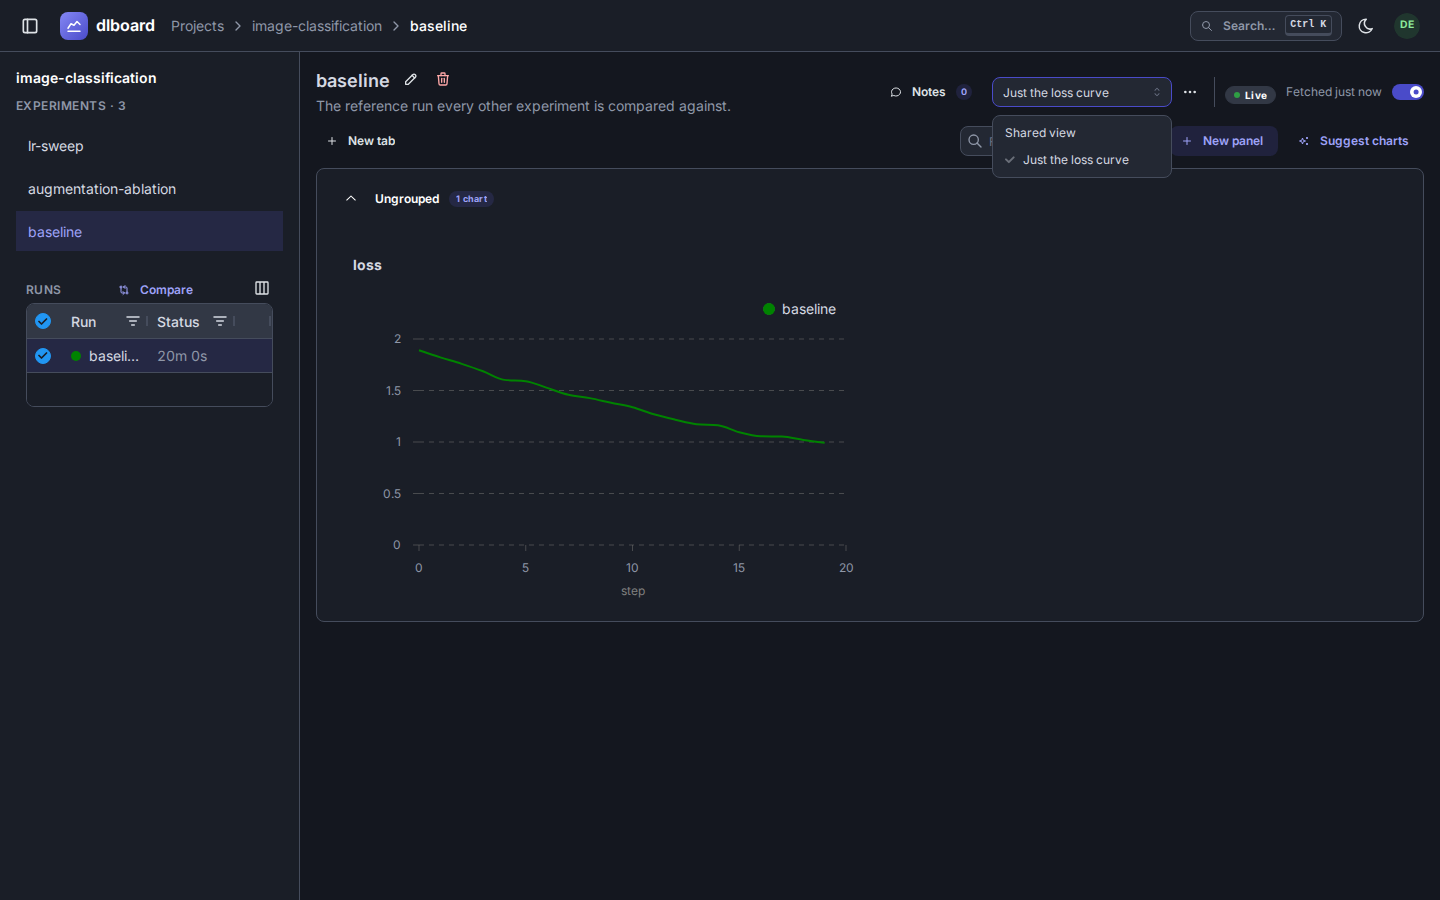
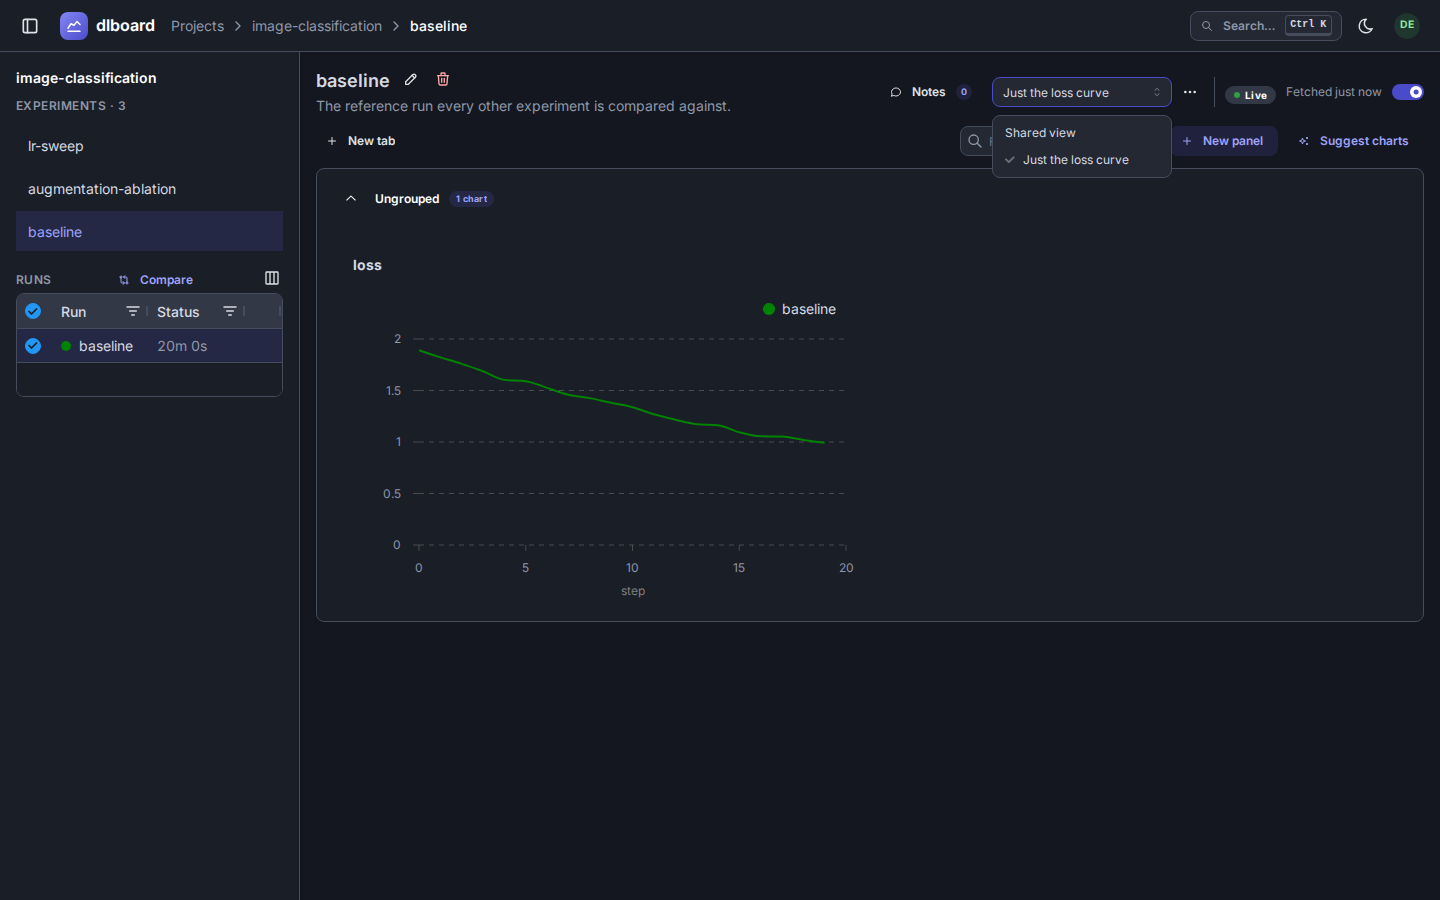
Line the navbar's runs table up with the experiment links above it
The runs section wrapped itself in a padding of its own inside the
navbar's, so its label and table sat 10 px further in on each side than
the experiment links (16 to 26 px on the left). It now uses the navbar's
padding alone. A browser test measures both edges; with the old padding
it fails with 26 == 16 +- 1.

Re-renders the three docs screenshots that show the navbar's runs.

Closes #371.

Changed region(s): [[0.0, 0.3111, 0.2188, 0.4356]]

diff --git a/dlboard/tests/browser_test.py b/dlboard/tests/browser_test.py
@@ -41,6 +41,7 @@ from dlboard.client.histograms import ExponentialBinning
 from dlboard.models import OVERLAY_KEY_SUFFIX, RUN_NAME_COLUMN, PanelInstance, overlay_key
 from dlboard.plugins.charts.line_chart import LEGEND_MAX_HEIGHT
 from dlboard.serve import get_system_data_store
+from dlboard.serve._constants import NAVBAR_ID
 from dlboard.serve._jump import JUMP_SELECT_ID
 from dlboard.serve._pages._experiment._chart_autogen import AUTO_OPEN_MAX_CHARTS
 from dlboard.serve._pages._experiment._chart_editor import CHART_EDITOR_SAVE_ID
@@ -2154,6 +2155,29 @@ def test_the_runs_table_shows_how_each_run_ended_and_for_how_long(page: Page, li
     expect(rows.filter(has_text="crashed")).to_contain_text("✕ 1h 2m")
     expect(rows.filter(has_text="all-done")).to_contain_text("3m 23s")
     expect(rows.filter(has_text="walked-away")).to_contain_text("? 2d 3h")
+
+
+def test_the_runs_table_lines_up_with_the_experiment_links_above_it(
+    page: Page, live_server_url: str, console_errors: list[str]
+) -> None:
+    """It sat a padding further in on each side than the experiment links in the same navbar (#371)."""
+    api = BasicDlboardAPI(live_server_url)
+    project = api.create_project(models.NewProject(name="Navbar Alignment Project", description=""))
+    experiment = api.create_experiment(models.NewExperiment(project_id=project.id, name="aligned"))
+    api.create_run(models.NewRun(experiment_id=experiment.id, name="aligned-run"))
+
+    page.goto(f"{live_server_url}/experiment/{experiment.id}")
+
+    table = page.locator(".dl-run-table")
+    link = page.locator(f"#{NAVBAR_ID} a[href$='/experiment/{experiment.id}']")
+    expect(table.locator(".ag-row")).to_have_count(1)
+    expect(link).to_be_visible()
+    table_box, link_box = table.bounding_box(), link.bounding_box()
+    assert table_box is not None
+    assert link_box is not None
+    assert table_box["x"] == pytest.approx(link_box["x"], abs=1)
+    assert table_box["x"] + table_box["width"] == pytest.approx(link_box["x"] + link_box["width"], abs=1)
+    assert console_errors == []
 
 
 def test_panel_menu_controls_mount_only_when_the_menu_opens(page: Page, live_server_url: str) -> None:

diff --git a/dlboard/serve/_pages/_experiment/_run_comparison_table.py b/dlboard/serve/_pages/_experiment/_run_comparison_table.py
@@ -579,7 +579,6 @@ def _register_hparam_table(app: Dash) -> None:
                 Store(id=NAVBAR_HPARAM_DRAWN_RUNS_ID, data=sorted(selection.shown)),
             ],
             gap="xs",
-            p="xs",
         )
 
     # The Apply button only makes sense once the picked columns diverge from what's applied --
